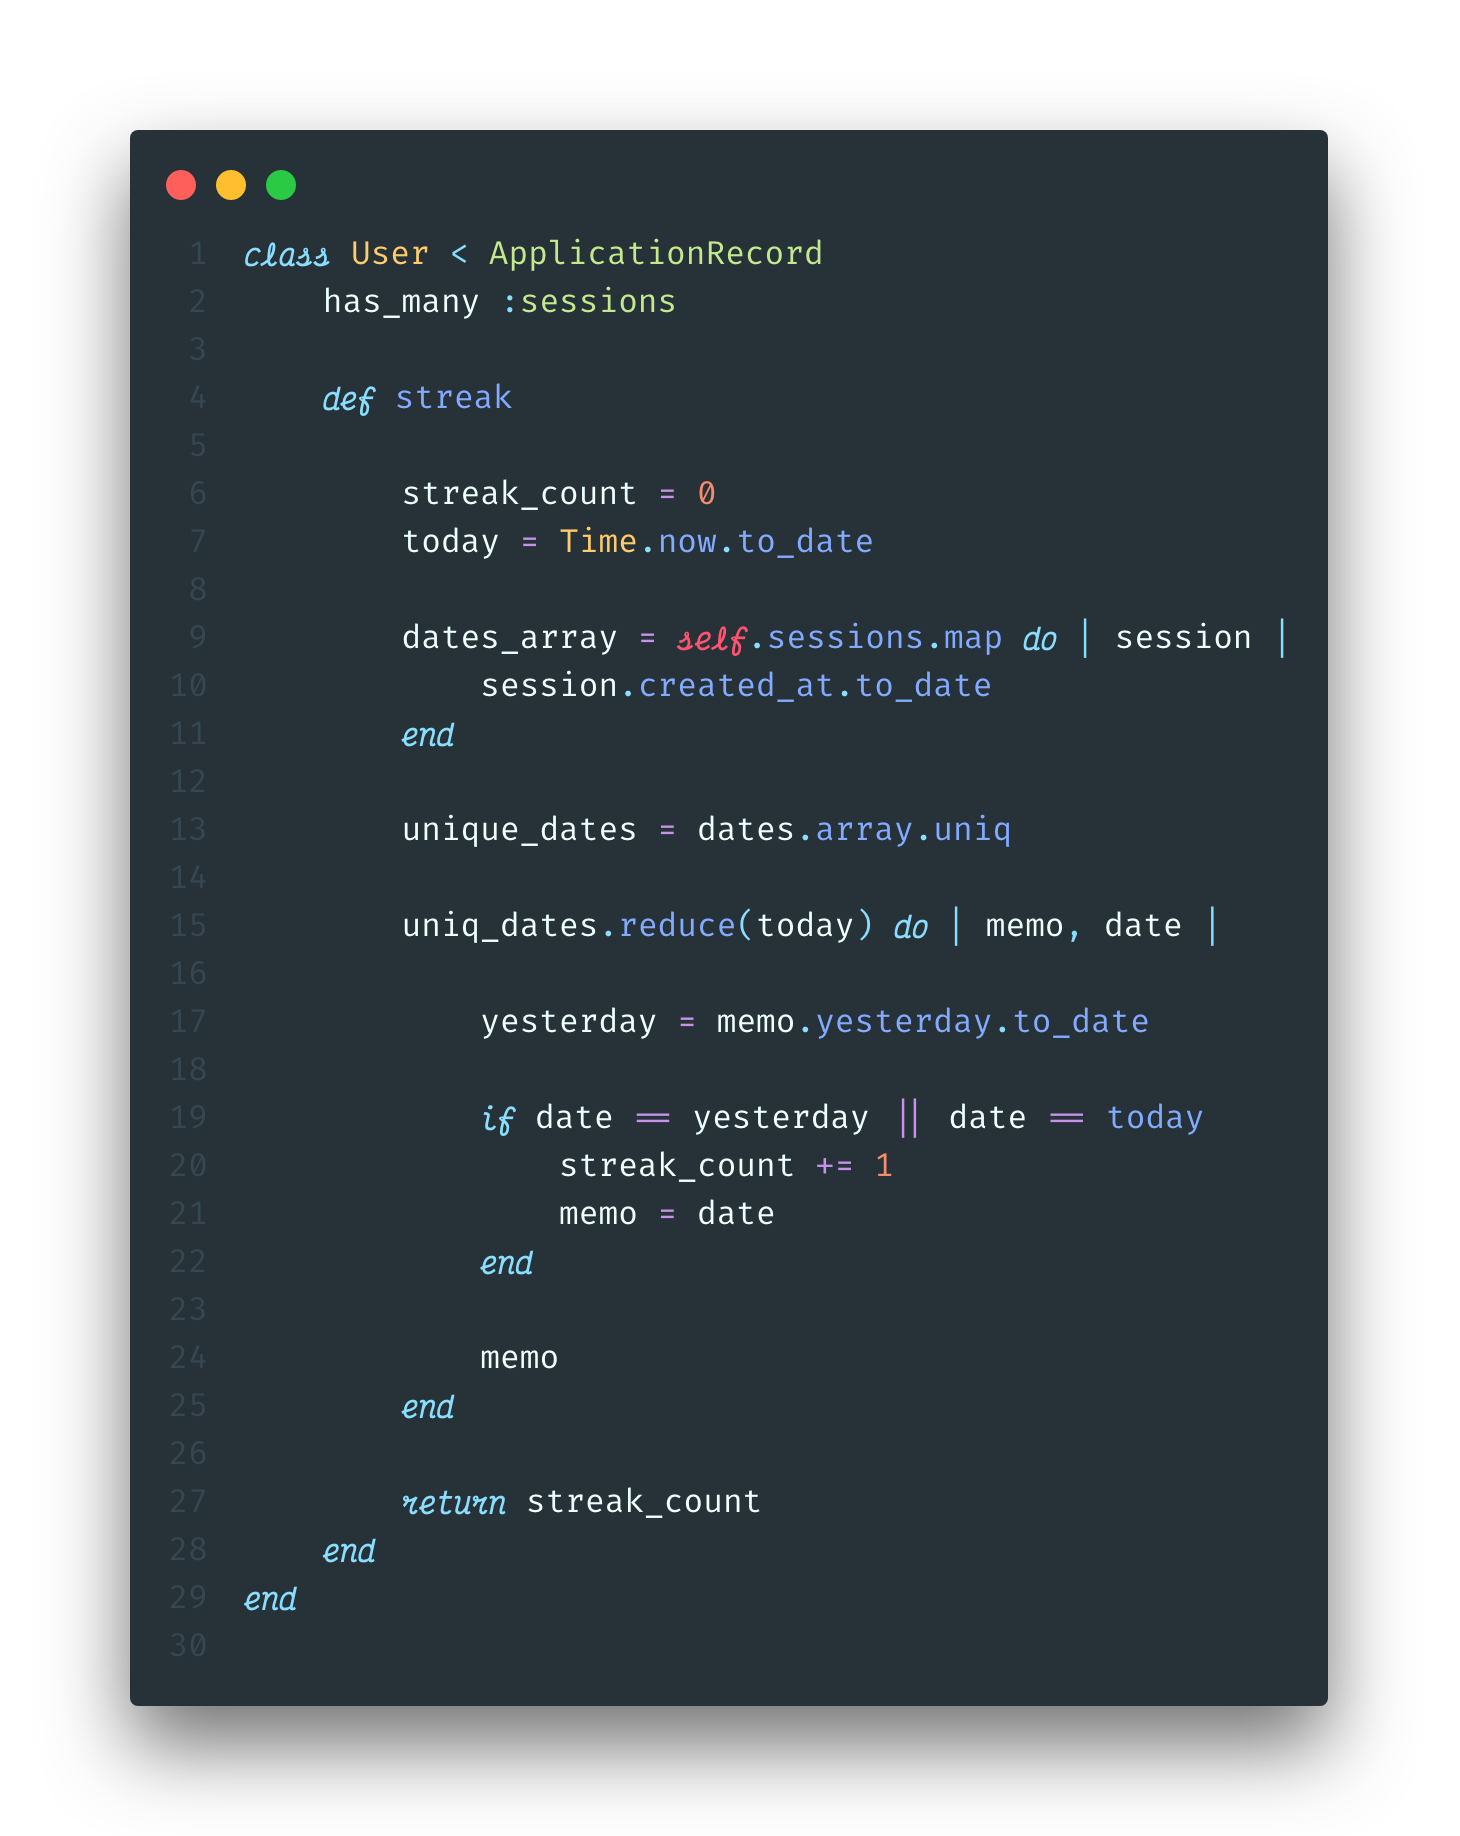
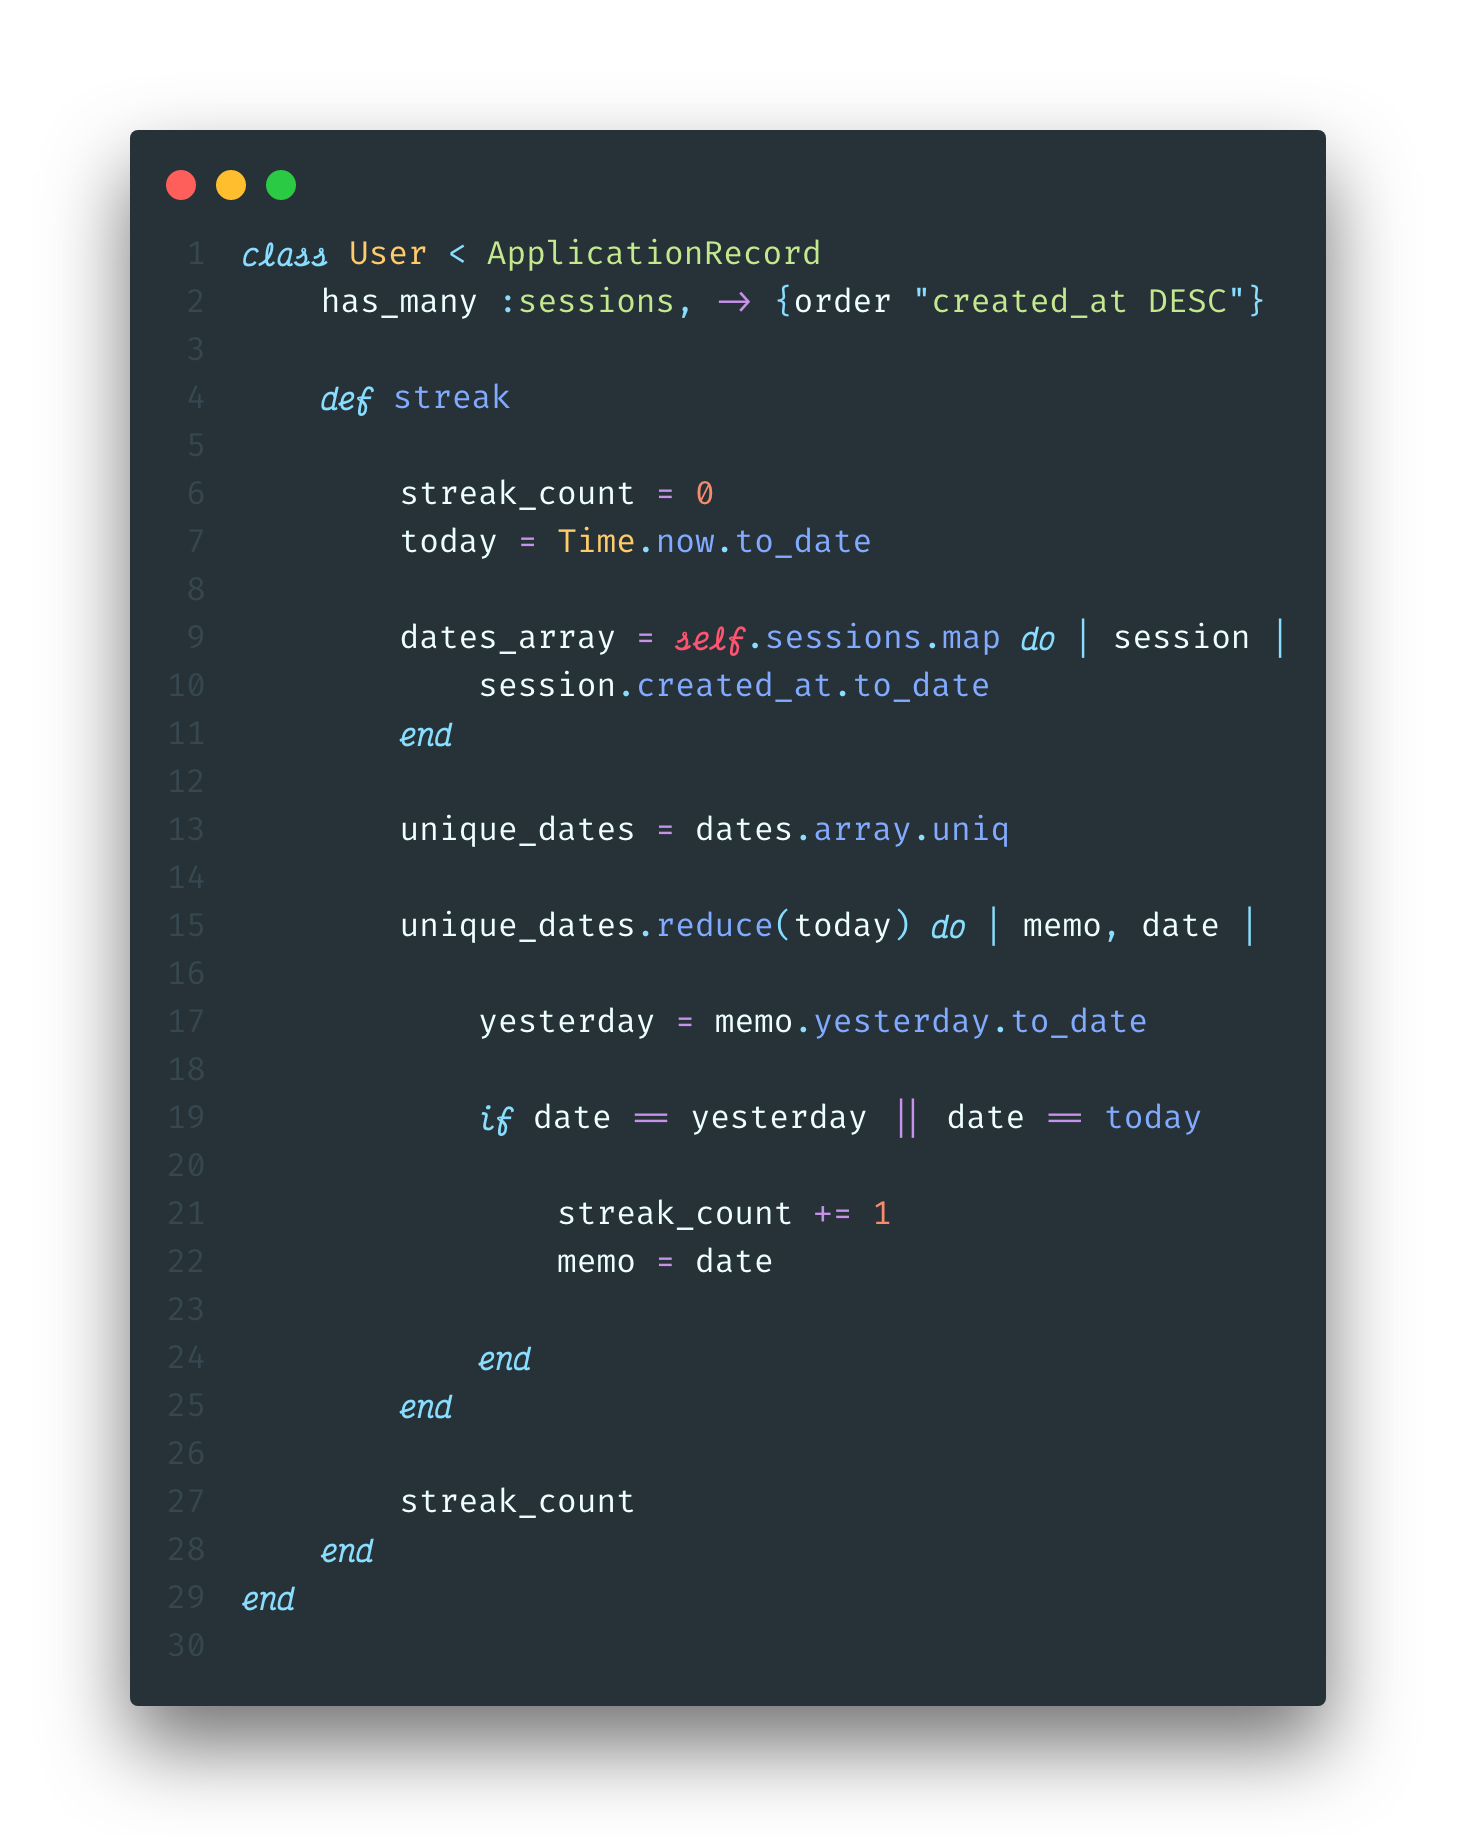
finished streak post

diff --git a/_posts/2019-10-13-tracking-user-streaks-in-ruby.md b/_posts/2019-10-13-tracking-user-streaks-in-ruby.md
@@ -8,24 +8,32 @@ tags: [programming, terminal, bash] # add tag
 ---
 ---
 
-From Duolingo to Headspace, many of the most popular apps today track user's "streaks". By keeping track of the number of days in a row a user has logged in and completed a task, these apps aim to create a beneficial habit for the user, while simultaneously insuring an active daily user base. Evidence seems to indicate that desire to keep a streak going will indeed motivate a person to do a task they might not otherwise.
+From Duolingo to Headspace, many of the most popular apps today track users' "streaks". By keeping track of the number of days in a row a user has logged in and completed a task, these apps aim to create a beneficial habit for the user, while simultaneously insuring an active daily user base. Evidence seems to indicate that desire to keep a streak going will indeed motivate a person to do a task they might not otherwise.
 
-With streaks being such a popular feature, a friend and I decided to try and incorperate it into a recent project we were working on. The application walked a user through the steps of a wim-hof breathing cycle, and we wanted to display the number of days in a row they had completed at least one cycle.
+With streaks being such a popular feature, a friend and I decided to try and incorporate it into a recent project we were working on. The application walked a user through the steps of a Wim Hof breathing cycle, and we wanted to display the number of days in a row they had completed at least one cycle.
 
-# Table of Contents
-1. [The goal](#the-goal)
-2. [The Solution](#the-solution)
-3. [The Breakdown](#the-breakdown)
+## Table of Contents
+
+- [Table of Contents](#table-of-contents)
+  - [The goal](#the-goal)
+  - [The solution](#the-solution)
+  - [The breakdown](#the-breakdown)
+    - [Step 1: Set up relationships](#step-1-set-up-relationships)
+    - [Step 2: Define an instance method](#step-2-define-an-instance-method)
+  - [Step 3: Create an array of dates](#step-3-create-an-array-of-dates)
+    - [Step 3: Calculate the streak](#step-3-calculate-the-streak)
+    - [Congrats! You can now calculate user streaks in your rails application](#congrats-you-can-now-calculate-user-streaks-in-your-rails-application)
+  - [References](#references)
 
 ### The goal
 
-Track the number of consecutive days a logged-in user completed a breathing-cycle, and display that number on the home pahe of our application. When the user completes a new session on a consecutive day for the first time, that number should update immediatly.
+Track the number of consecutive days a logged-in user completed a breathing-cycle, and display that number on the home page of our application. When the user completes a new session on a consecutive day for the first time, that number should update immediately.
 
 ### The solution
 
-After a few uncessful attempts at using gems or code-snippets, we decided it would be easier and a better learning experience to write our own code. We also opted to track the streaks in the back end, because Ruby makes working with dates and times simpler. Here is the final version:
+After a few unsuccessful attempts at using gems or code-snippets, we decided it would be easier and a better learning experience to write our own code. We also opted to track the streaks in the back end, because Ruby makes working with dates and times simpler. Here is the final version:
 
-![image of final code](../_site/assets/img/full-code.png)
+![image of final code](../_site/assets/img/full-code.jpg)
 
 ### The breakdown
 
@@ -33,20 +41,27 @@ Our application is built on a ruby-on-rails back-end, with a vanilla JavaScript 
 
 #### Step 1: Set up relationships
 
-![image of relationships](../_site/assets/img/relationships.png)
+![image of relationships](../_site/assets/img/relationships.jpg)
 
-First we need to create a Ruby class of User, which inherits from `ApplicationRecord`, which is a rails model which includes ActiveRecord. We can then add the ActiveRecord syntax for a has-many relationship as seen on line 2. This allows us to access all of a User's sessions by simply calling `.sessions` on in instance of a `User`.
+First we need to create a Ruby class of User, which inherits from `ApplicationRecord`, which is a rails model which includes ActiveRecord. We can then add the ActiveRecord syntax for a has-many relationship as seen on line 2. This allows us to access all of a User's sessions by simply calling `.sessions` on in instance of a `User`. Additionally, Active Record relationships can take a second argument, [scope](https://edgeguides.rubyonrails.org/association_basics.html#scopes-for-belongs-to), which allows us to customize the SQL query. Will will want to haver our array ordered from most recent date to least recent date, which can be accomplished if we query for _**descending**_ order:
 
-#### Step 2: Create a class method
+```ruby
+has_many :sessions, -> {order "created_at DESC"}
+```
 
-![image of variables](../_site/assets/img/instance-method.png)
+#### Step 2: Define an instance method
 
-Next, we need to create an instance method, `streak`, that we can call on an instance of a `User` to get their streak. Inside this method, we will declare a a couple local variables we wil need later in the function. Ruby allows is to easily find and format the current day using `Time.now.to_date`. `Time.now` will retrun a date in a long format:
+![image of variables](../_site/assets/img/instance-method.jpg)
+
+Next, we need to create an instance method, `streak`, that we can call on an instance of a `User` to get their streak. Inside this method, we will declare a a couple local variables we will need later in the function. First, lets set `streak_count` to 0. We should also define `today` for readability. Ruby allows is to easily find and format the current day using `Time.now.to_date`. `Time.now` will return a date in a long format:
+
 ```ruby
 Time.now
 => 2019-10-15 16:16:16 -0400
 ```
+
 Since we only want to keep track of days, we can get rid of all of the extraneous information using `to_date`. This will return a simple, readable date format.
+
 ```ruby
 Time.now.to_date
 => 2019-10-15
@@ -54,11 +69,11 @@ Time.now.to_date
 
 ### Step 3: Create an array of dates
 
-![image of dates array](../_site/assets/img/unique-dates.png)
+![image of dates array](../_site/assets/img/unique-dates.jpg)
 
 In order to make sure that multiple sessions in the same day will not count towards the streak, we want to create an array only containing the unique dates. We will do this in two steps:
 
-   1. Using the enumberable method `.map`, we can create an array of dates converted from the `created-at` timestamp for every session.
+   1. Using the enumerable method `.map`, we can create an array of dates converted from the `created-at` timestamp for every session.
 
 ```ruby
 dates_array = self.sessions.map do |session|
@@ -78,12 +93,12 @@ Finally, we need to establish a default value for the `streak_count`, `0`. We no
 
 For this step, we will take advantage of the Ruby enumerable method `reduce`. If you are not familiar with reduce, I would recommend checking out this [great article](https://mixandgo.com/learn/what-is-a-ruby-reducer).
 
-![image of streak calculation](../_site/assets/img/calculate-streak.png)
+![image of streak calculation](../_site/assets/img/calculate-streak.jpg)
 
-Lets walk through this method. The basic structure of a reducer in psuedocode looks like this:
+Lets walk through this method. The basic structure of a reducer in pseudocode looks like this:
 
 ```ruby
-array-variable.reduce(starting_value) do | accumulator, current_element |
+array_variable.reduce(starting_value) do | accumulator, current_element |
    action
 end
 ```
@@ -95,38 +110,45 @@ Typically, the accumulator (conventionally called the `memo`) is the return valu
 # => 6
 ```
 
-However, for our method, we need to track two different variables: the current streak value, and the date of the *last consecutive session*. This is because we are counting in reverse chronological order, starting with today's date. Lets walk through it step by step
-
->Imagine you have been shrunk down in honey-I-shrunk-the-kinds style.  The date you are standing on is *today*, and the day in front of you is *yesterday*. If you were to walk forward, you would be walking back in time. Make sense? Now, you will first check if there was a session completed *today*. If there was, increment the streak count by 1. Then, look forward and see if there was a session completed yesterday. If there was, increment the streak count by 1 and move forward into *yesterday*. Once you step forward, *yesteray* becomes *today*. Congrats! You are now a time traveller. Standing on the new *today*, look forward to the new *yesterday*. If there was a session completed on that day, increment, and step forward again. Repeat this time-travelling process until you encounter a *yesterday* without a serssion completed. Once you do, you have your current streak count!
-
-In this metaphor, we can keep track of the date of the last consecutive session because we are standing on it. In our function, we will keep track of it by saving it to our memo. Since we also want to kep track of the streak_count, as well as have it be the return value of the entire `streak` method, we initialized it as a variable outside of our reducer. We can then increment this inside the reducer. Here is the code:
+However, for our method, we need to track two different variables: the current streak value, and the date of the *last consecutive session*. This is because we are counting in reverse chronological order, starting with today's date. Lets break it down:
 
 ```ruby
-uniq_dates.reduce(today) do | memo, date |
+unique_dates.reduce(today) do | memo, date |
 
-   # set the value of yesterday as the date before "today"
    yesterday = memo.yesterday.to_date
-
-      # check if the this interation's date is equal to either today or yesterday
-      if date == yesterday || date == today
-
-         # increment the streak count
-         streak_count += 1
-
-         # set the memo to thi round's date
-         memo = date
-
-      end
-
-   # return the memo so we have access to it in the next interation
-   memo
 
 end
 ```
 
+Here we are calling reduce on the unique dates array, and passing in `today`, which we defined in step 2, as starting value for the memo. Then we are defining a local variable, `yesterday`, as the reformatted date of the day before the memo.
 
-#### Congrats! You can now calculate user streaks in your rails application.
+```ruby
+unique_dates.reduce(today) do | memo, date |
+
+      yesterday = memo.yesterday.to_date
+
+      if date == yesterday || date == today
+
+            streak_count += 1
+            memo = date
+
+      end
+end
+```
+
+Finally, we want to create an *if* statement that determines when to increment the streak count. If the user had finished a session today, then `date` will be equal to today during first iteration through the array; we would want to increment then. For each following iteration, we want to check if `date` is equal to `yesterday`. If it is, that means that the user has finished a session three days in a row, and so we should increment again. This will continue to increment as long as the next date in the array is the day prior to the current date we are iterating over. This works because we ordered the `sessions` array in descending order based on their `created_at` attributes, as mentioned above.
 
 **important:** Don't forget to return the streak count at the end of the `streak method`, or else the return value will be the final memo from our reducer.
 
-![image of full code with comments](../_site/assets/img/full-code-comments.png)
+#### Congrats! You can now calculate user streaks in your rails application
+
+This code should be modifiable to work with any Active Record model with a *has_many* relationship. Good luck tracking all those streaks!
+
+Here is the final code, with comments included:
+
+![image of full code with comments](../_site/assets/img/full-code-comments.jpg)
+
+### References
+
+- [What is a Ruby Reducer?](https://mixandgo.com/learn/what-is-a-ruby-reducer)
+- [Scopes for belongs_to](https://edgeguides.rubyonrails.org/association_basics.html#scopes-for-Belongs-to)
